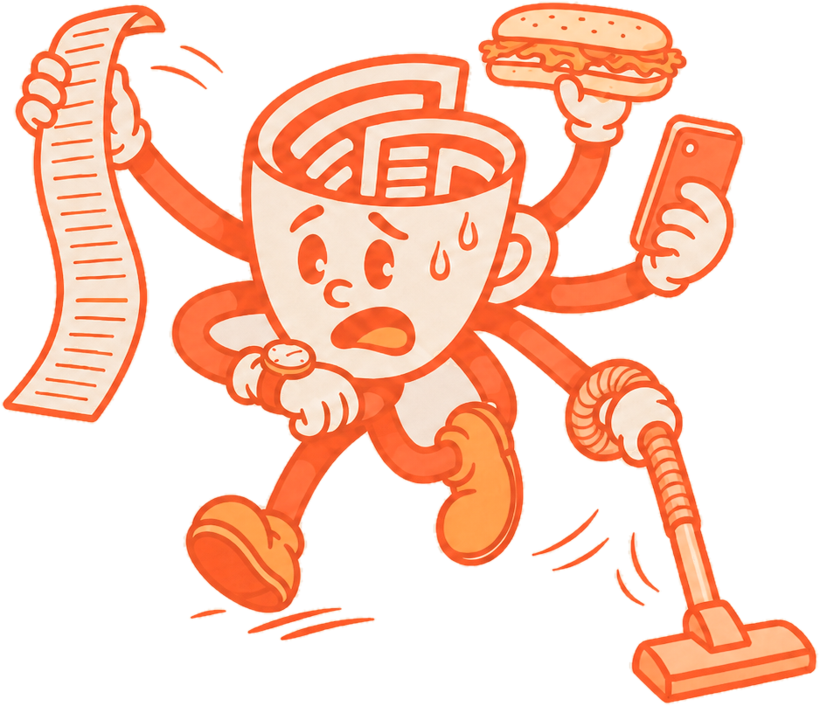
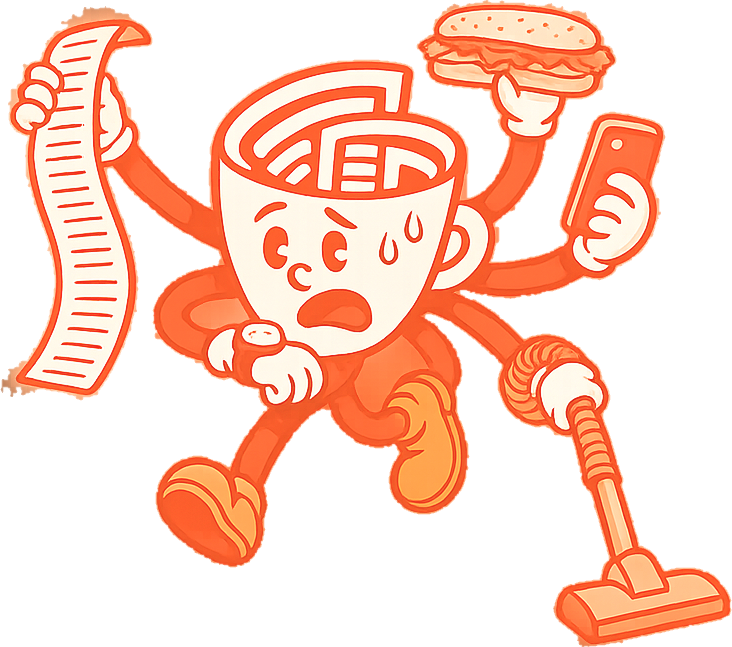
mockups: ilustraciones 2 y 3 desde el archivo sin fondo (separadas, reloj conservado) + copy nuevo del problema
Claude-Session: https://claude.ai/code/session_01BbK3ZHSYSSf8KULSvHYDwE

Changed region(s): [[0.0, 0.0, 1.0, 1.0], [0.2104, 0.6491, 0.4508, 0.9274]]

diff --git a/mockups/news.html b/mockups/news.html
@@ -487,23 +487,23 @@
     <div class="wrap">
       <div class="sec-head">
         <span class="kick">El problema</span>
-        <h2>Tu tiempo es limitado. El ruido no.</h2>
-        <p>Entre noticias interminables y pausas que se convierten en más pantalla, mantenerse informado y despejar la mente puede sentirse más difícil de lo necesario.</p>
+        <h2>Informarte no debería agotarte.</h2>
+        <p>Entre titulares interminables y pausas que terminan en más pantalla, mantenerse al día puede sentirse más pesado de lo necesario.</p>
       </div>
       <div class="probs">
         <div class="prob">
           <div class="p-art"><img src="./tile-ruido.png" alt="Ristretto abrumado por titulares"></div>
           <h3>Demasiado ruido</h3>
-          <p>Cientos de titulares compiten por tu atención, pero pocos te ayudan a entender qué importa.</p>
+          <p>Cientos de titulares compiten por tu atención, pero pocos te ayudan a entender lo que realmente importa.</p>
         </div>
         <div class="prob">
           <div class="p-art"><img src="./tile-tiempo.png" alt="Ristretto contra el reloj"></div>
-          <h3>El tiempo no alcanza</h3>
-          <p>No deberías necesitar media mañana para enterarte de lo esencial.</p>
+          <h3>El día no alcanza</h3>
+          <p>No deberías necesitar media mañana para ponerte al día con lo esencial.</p>
         </div>
         <div class="prob">
           <div class="p-art"><img src="./tile-pausas.png" alt="Ristretto atrapado en el teléfono"></div>
-          <h3>Pausas que no descansan</h3>
+          <h3>Descansos que cansan</h3>
           <p>Entras al teléfono por cinco minutos y sales una hora después, más cansado que antes.</p>
         </div>
       </div>
